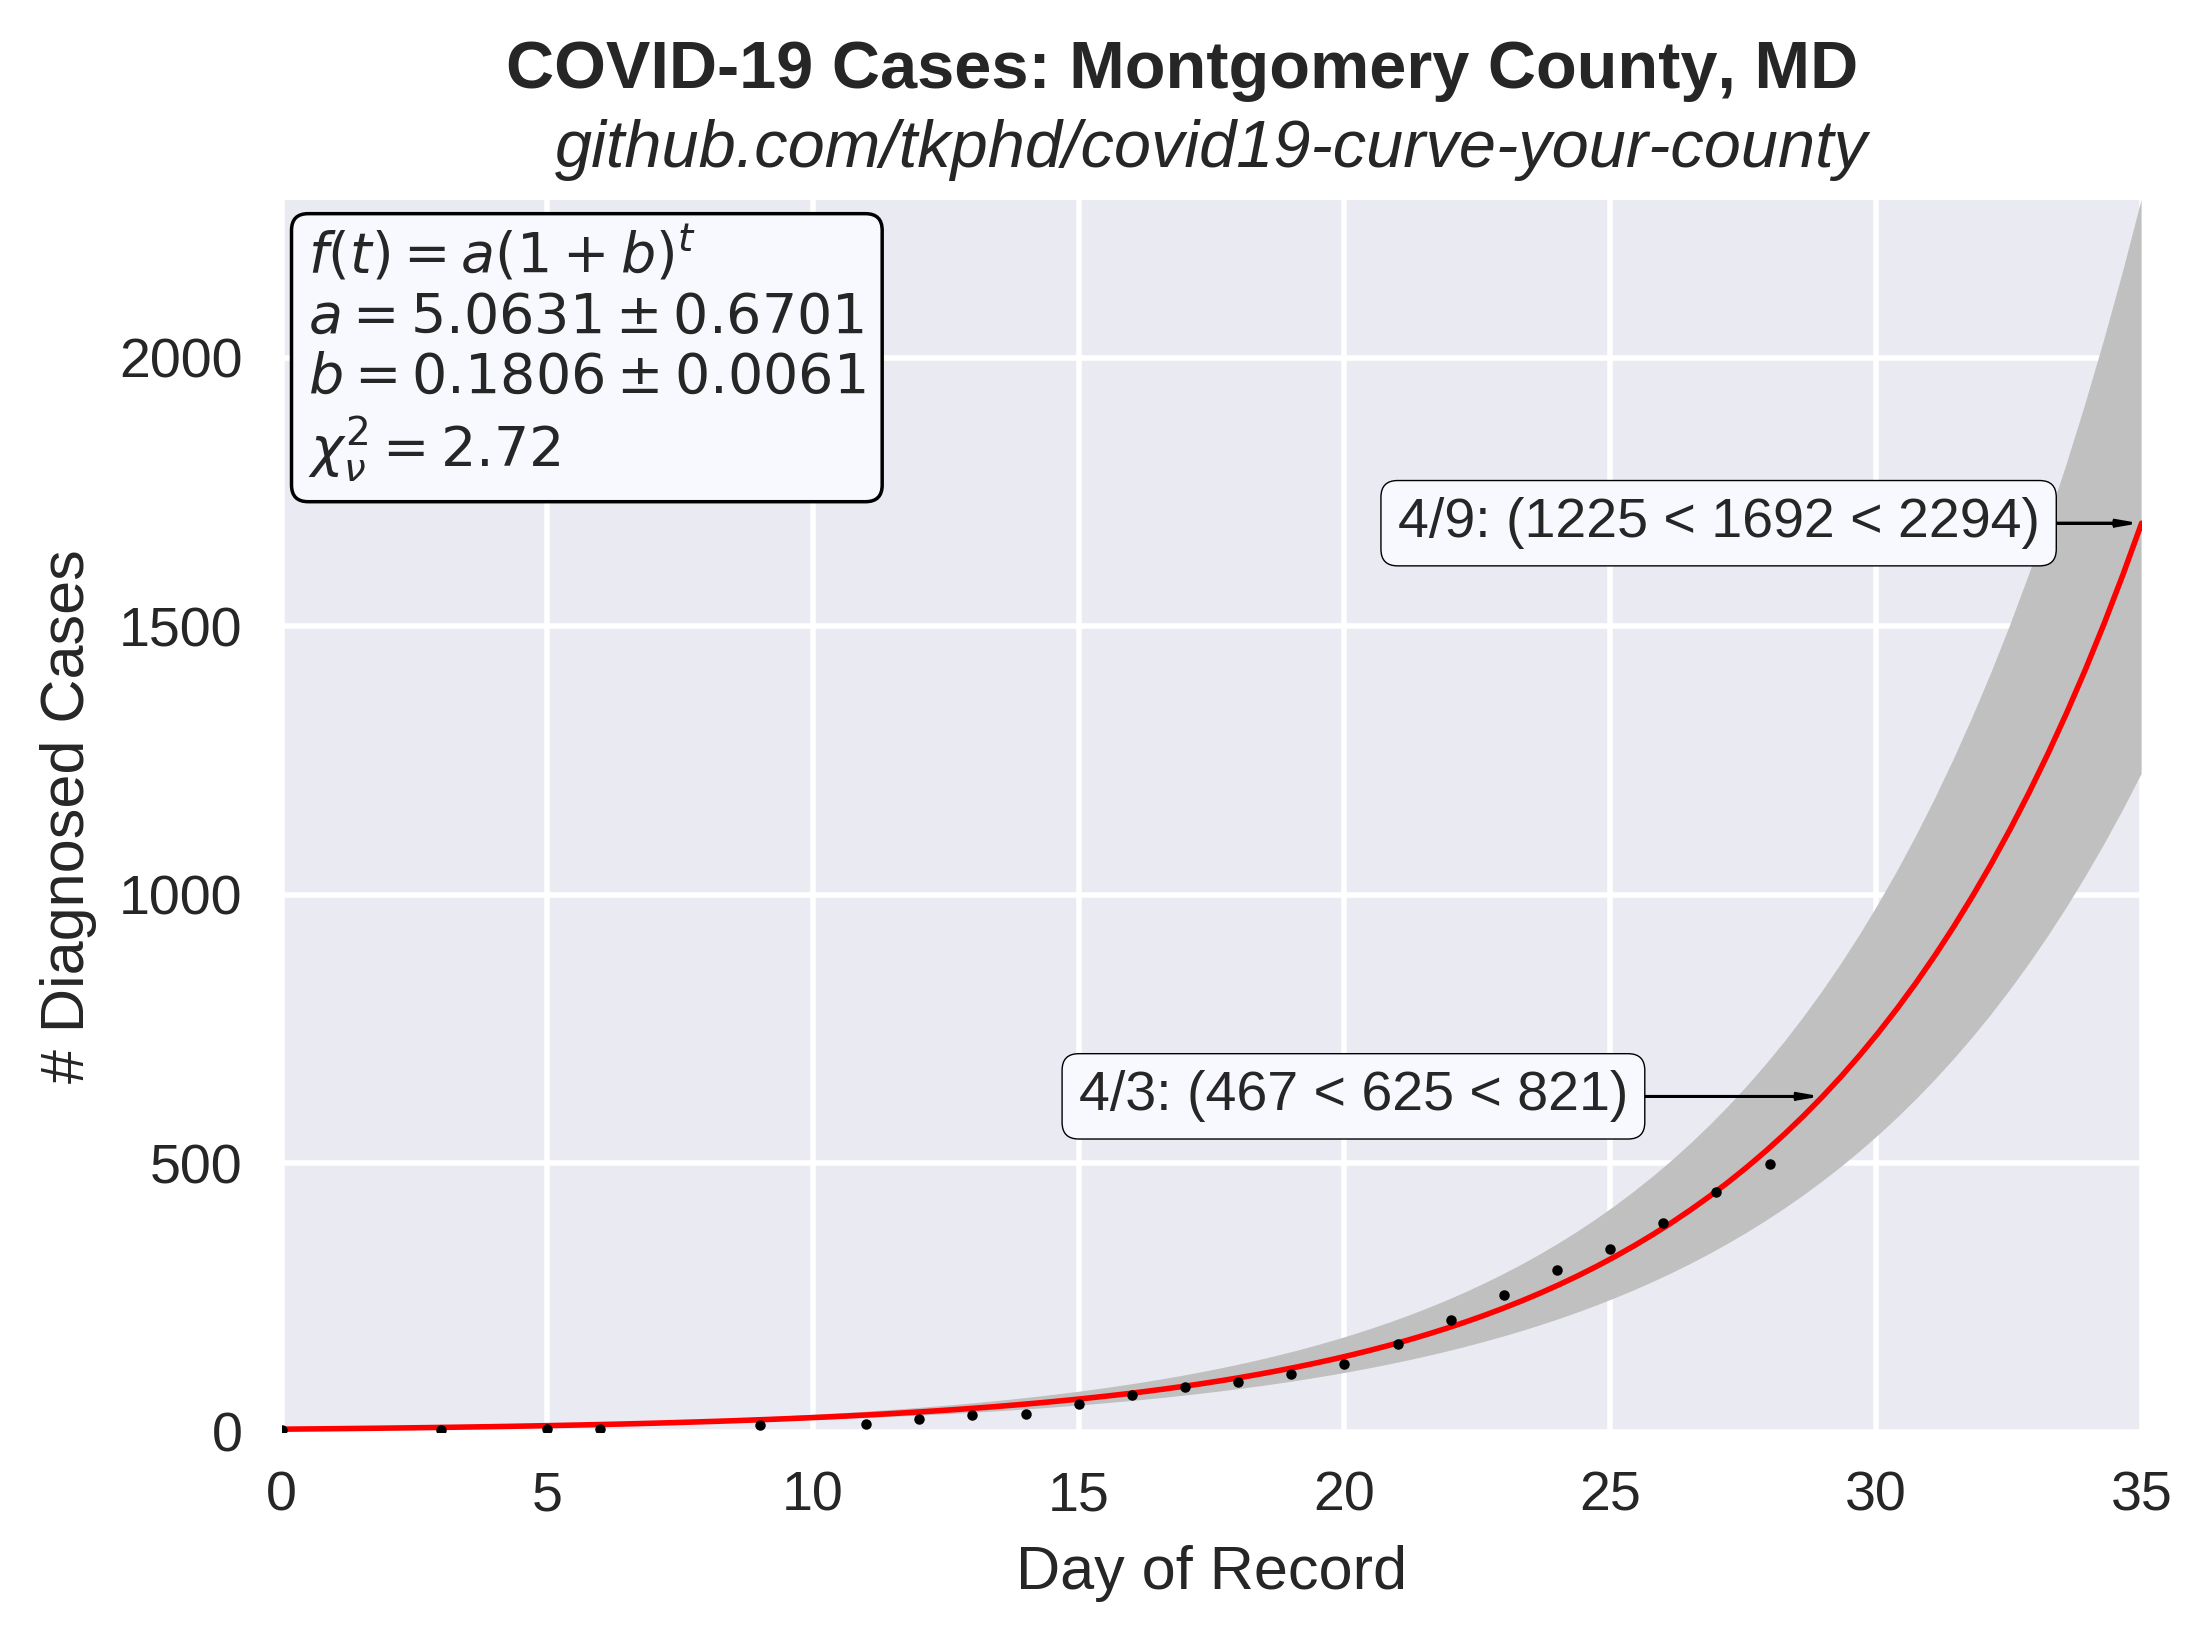
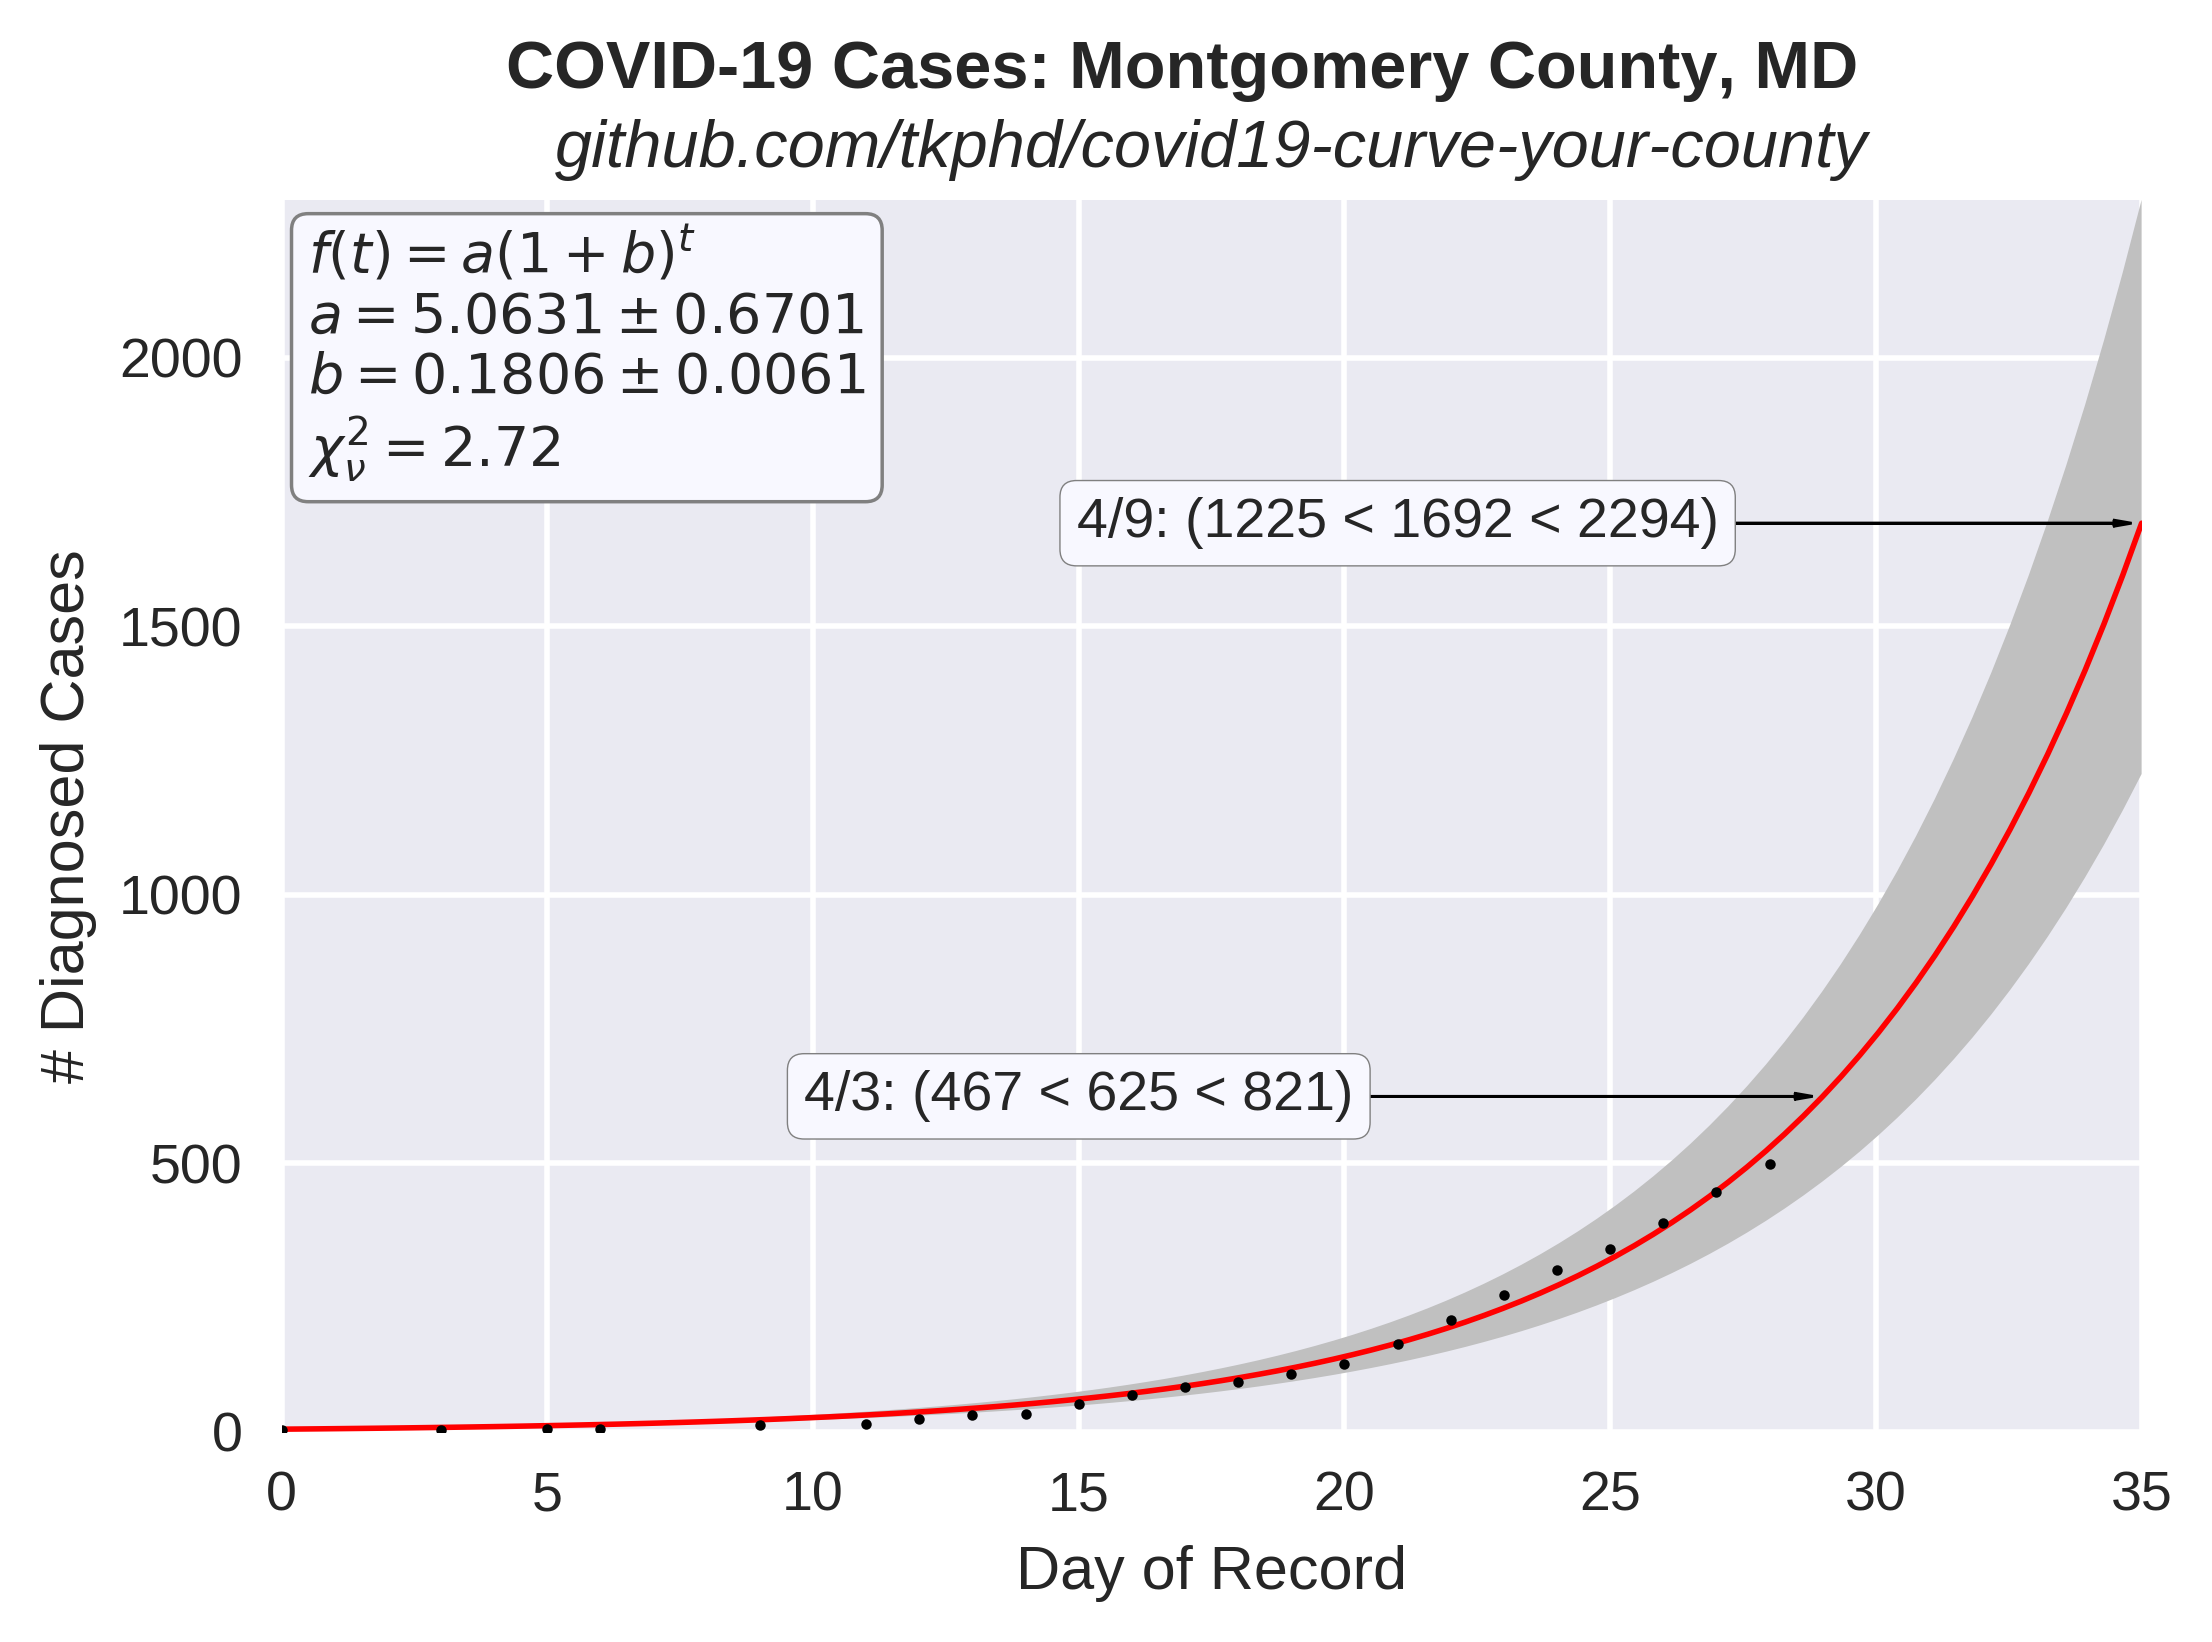
generalize for easy substitution of alternative equations

diff --git a/exponential.py b/exponential.py
@@ -11,17 +11,34 @@ from scipy.stats import describe, chisquare, t
 from matplotlib import style
 style.use("seaborn")
 
+model = "exp"
 
-def model(t, a, b):
+def f_exp(t, a, b):
     # Exponential growth law, $f(t) = a * (1 + b) ^ t$,
     # where $a$ is the number of cases at $t=0$ and $b$ is the growth rate.
     return a * (1 + b) ** t
 
-def jacobian(t, a, b):
-    # df/dp for p=(a, b)
+def df_exp(t, a, b):
+    # Jacobian: df/dp for p=(a, b)
     return np.array([(1 + b) ** t,
                      (a * t * (1 + b) ** t) / (1 + b)]).T
 
+def f_log(t, a, b, c):
+    # Logistic growth law, $f(t) = c / (exp((b - t)/a) + 1)$
+    return c / (np.exp((b - t)/a) + 1)
+
+def df_log(t, a, b, c):
+    # Jacobian: df/dp for p=(a, b, c)
+    return np.array([c*(b - t)*np.exp((b - t)/a)/(a**2*(np.exp((b - t)/a) + 1)**2),
+                     -c*np.exp((b - t)/a)/(a*(np.exp((b - t)/a) + 1)**2),
+                     1/(np.exp((b - t)/a) + 1)]).T
+
+f  = f_exp
+df = df_exp
+
+if model == "log":
+    f  = f_log
+    df = df_log
 
 fig = plt.figure(figsize=(6, 4))
 plt.suptitle("COVID-19 Cases: Montgomery County, MD", fontweight="bold")
@@ -31,62 +48,58 @@ plt.ylabel("# Diagnosed Cases")
 
 # Data
 
-df = pd.read_csv("us_md_montgomery.csv")
+data = pd.read_csv("us_md_montgomery.csv")
 
-y = np.array(df["diagnosed"])
-start = strptime(df["date"].iloc[0], "%Y-%m-%d")
+y = np.array(data["diagnosed"])
+start = strptime(data["date"].iloc[0], "%Y-%m-%d")
 start = date(start.tm_year, start.tm_mon, start.tm_mday).toordinal()
-today = strptime(df["date"].iloc[-1], "%Y-%m-%d")
+today = strptime(data["date"].iloc[-1], "%Y-%m-%d")
 today = date(today.tm_year, today.tm_mon, today.tm_mday).toordinal()
 
 t = np.zeros_like(y)
 for i in range(len(y)):
-    day = strptime(df["date"].iloc[i], "%Y-%m-%d")
+    day = strptime(data["date"].iloc[i], "%Y-%m-%d")
     t[i] = date(day.tm_year, day.tm_mon, day.tm_mday).toordinal() - start
 
 plt.scatter(t, y, marker=".", s=10, color="k", zorder=10)
 
 # Levenburg-Marquardt Least-Squares Fit
 """
-Note that sigma represents the relative error associated with each data point. By default, curve_fit
+Note that sigma represents the relative error associated with each data point. By default, `curve_fit`
 will assume an array of ones (constant values imply no difference in error), which is probably
 incorrect: given sparsity of testing, there's considerable uncertainty, and the earlier numbers may
 be lower than the truth to a greater extent than the later numbers. Quantifying this error by some
 non-trivial means for each datapoint would produce much more realistic uncertainty bands in the
 final plots.
 """
-popt, pcov = curve_fit(model, t, y, sigma=None, method="lm", jac=jacobian)
-a, b = popt
+p, pcov = curve_fit(f, t, y, sigma=None, method="lm", jac=df)
 coef = describe(pcov)
 perr = np.sqrt(np.diag(pcov))
 
 # Reduced chi-square goodness of fit
 ## https://en.wikipedia.org/wiki/Reduced_chi-squared_statistic
 
-chisq, chip = chisquare(y, model(t, a, b))
-ndof = len(y) - len(popt) - 1
+chisq, chip = chisquare(y, f(t, *p))
+ndof = len(y) - len(p) - 1
 
 # Confidence Band: dfdp represents the partial derivatives of the model with respect to each parameter p (i.e., a and b)
 
-that = np.linspace(0, t[-1] + 7, 100)
-yhat = model(that, a, b)
+t_hat = np.linspace(0, t[-1] + 7, 100)
+y_hat = f(t_hat, *p)
 
-upr_a = a + perr[0]
-lwr_a = a - perr[0]
+upr_p = p + perr
+lwr_p = p - perr
 
-upr_b = b + perr[1]
-lwr_b = b - perr[1]
+upper = f(t_hat, *upr_p)
+lower = f(t_hat, *lwr_p)
 
-upper = model(that, upr_a, upr_b)
-lower = model(that, lwr_a, lwr_b)
-
-it = np.argsort(that)
-plt.plot(that[it], yhat[it], c="red", lw=1, zorder=5)
+it = np.argsort(t_hat)
+plt.plot(t_hat[it], y_hat[it], c="red", lw=1, zorder=5)
 plt.fill_between(
-    that[it], upper[it], yhat[it], edgecolor=None, facecolor="silver", zorder=1
+    t_hat[it], upper[it], y_hat[it], edgecolor=None, facecolor="silver", zorder=1
 )
 plt.fill_between(
-    that[it], lower[it], yhat[it], edgecolor=None, facecolor="silver", zorder=1
+    t_hat[it], lower[it], y_hat[it], edgecolor=None, facecolor="silver", zorder=1
 )
 
 # Predictions
@@ -97,49 +110,59 @@ dt = 14
 tomorrow = date.fromordinal(today + 1)
 nextWeek = date.fromordinal(today + 7)
 
-that = np.array([tomorrow.toordinal() - start, nextWeek.toordinal() - start])
-yhat = model(that, a, b)
+t_hat = np.array([tomorrow.toordinal() - start, nextWeek.toordinal() - start])
+y_hat = f(t_hat, *p)
 
-upper = model(that, upr_a, upr_b)
-lower = model(that, lwr_a, lwr_b)
+upper = f(t_hat, *upr_p)
+lower = f(t_hat, *lwr_p)
 
 # Overlay model on plot
-plt.text(0.5, 0.98 * upper[1],
-    "$f(t) = a (1 + b)^t$\n$a = {0:.4f} \pm {2:.4f}$\n$b = {1:.4f} \pm {3:.4f}$\n$\\chi^2_\\nu={4:.3g}$".format(a, b, perr[0], perr[1], chisq / ndof),
-    va="top",
-    zorder=5,
-    bbox=dict(boxstyle="round", ec="black", fc="ghostwhite", linewidth=2.5*dx)
-)
+if model == "exp":
+    plt.text(0.5, 0.98 * upper[1],
+             "$f(t) = a (1 + b)^t$\n$a = {0:.4f} \pm {2:.4f}$\n$b = {1:.4f} \pm {3:.4f}$\n$\\chi^2_\\nu={4:.3g}$".format(*p, *perr, chisq / ndof),
+             va="top",
+             zorder=5,
+             bbox=dict(boxstyle="round", ec="gray", fc="ghostwhite", linewidth=2.5*dx)
+    )
+elif model == "log":
+    plt.text(0.5, 0.98 * upper[1],
+             "$f(t) = c / (\exp((b - t)/a) + 1)$\n$a = {0:.4f} \pm {3:.4f}$\n$b = {1:.4f} \pm {4:.4f}$\n$c = {2:.4f} \pm {5:.4f}$\n$\\chi^2_\\nu={6:.3g}$".format(*p, *perr, chisq / ndof),
+             va="top",
+             zorder=5,
+             bbox=dict(boxstyle="round", ec="gray", fc="ghostwhite", linewidth=2.5*dx)
+    )
 
 # Overlay projections on plot
 plt.text(
-    that[0] - dt,
-    yhat[0],
+    t_hat[0] - dt,
+    y_hat[0],
     "{0}/{1}: ({2:.0f} < {3:.0f} < {4:.0f})".format(
-        tomorrow.month, tomorrow.day, lower[0], yhat[0], upper[0]
+        tomorrow.month, tomorrow.day, lower[0], y_hat[0], upper[0]
     ),
     va="center",
+    ha="center",
     zorder=5,
-    bbox=dict(boxstyle="round", ec="black", fc="ghostwhite", linewidth=dx)
+    bbox=dict(boxstyle="round", ec="gray", fc="ghostwhite", linewidth=dx)
 )
 
 plt.text(
-    that[1] - dt,
-    yhat[1],
+    t_hat[1] - dt,
+    y_hat[1],
     "{0}/{1}: ({2:.0f} < {3:.0f} < {4:.0f})".format(
-        nextWeek.month, nextWeek.day, lower[1], yhat[1], upper[1]
+        nextWeek.month, nextWeek.day, lower[1], y_hat[1], upper[1]
     ),
     va="center",
+    ha="center",
     zorder=5,
-    bbox=dict(boxstyle="round", ec="black", fc="ghostwhite", linewidth=dx)
+    bbox=dict(boxstyle="round", ec="gray", fc="ghostwhite", linewidth=dx)
 )
 
 hw = 12
-hl = that[1] / 100
+hl = t_hat[1] / 100
 
 plt.arrow(
-    that[0] - dt,
-    yhat[0],
+    t_hat[0] - dt,
+    y_hat[0],
     dt - dx + 0.0625,
     0,
     fc="black",
@@ -152,8 +175,8 @@ plt.arrow(
     zorder=2,
 )
 plt.arrow(
-    that[1] - dt,
-    yhat[1],
+    t_hat[1] - dt,
+    y_hat[1],
     dt - dx + 0.0625,
     0,
     fc="black",
@@ -168,7 +191,7 @@ plt.arrow(
 
 # Plot Boundaries
 
-plt.xlim([0, that[-1]])
+plt.xlim([0, t_hat[-1]])
 plt.ylim([0, upper[-1]])
 
 # Save figure
